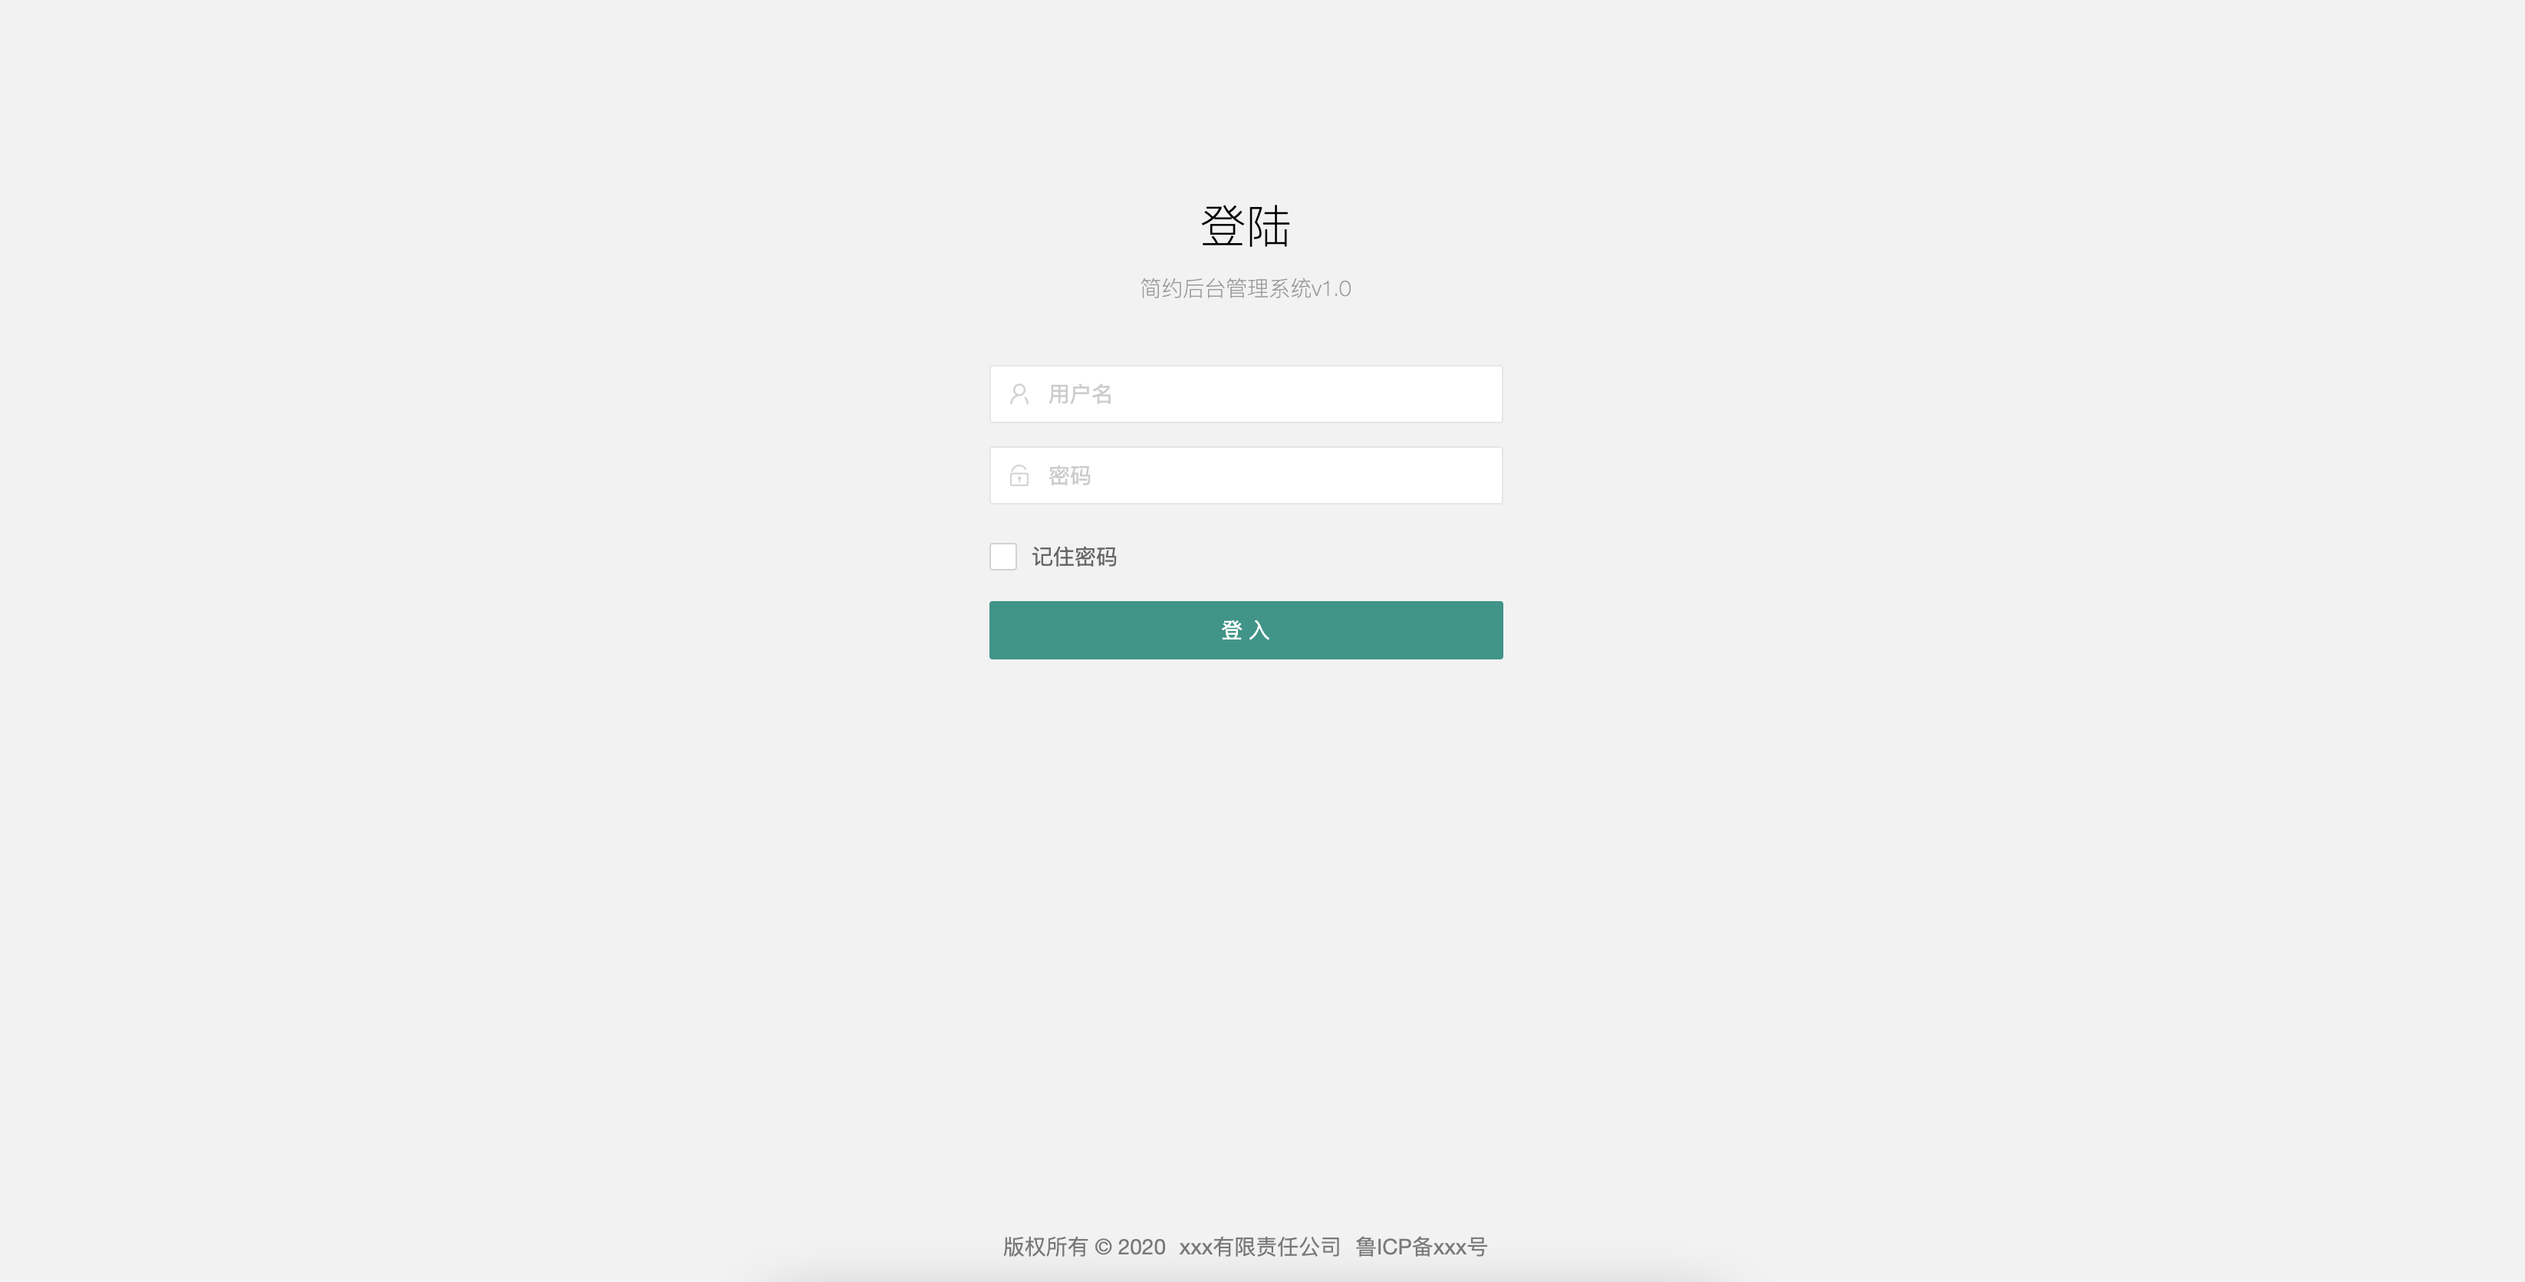
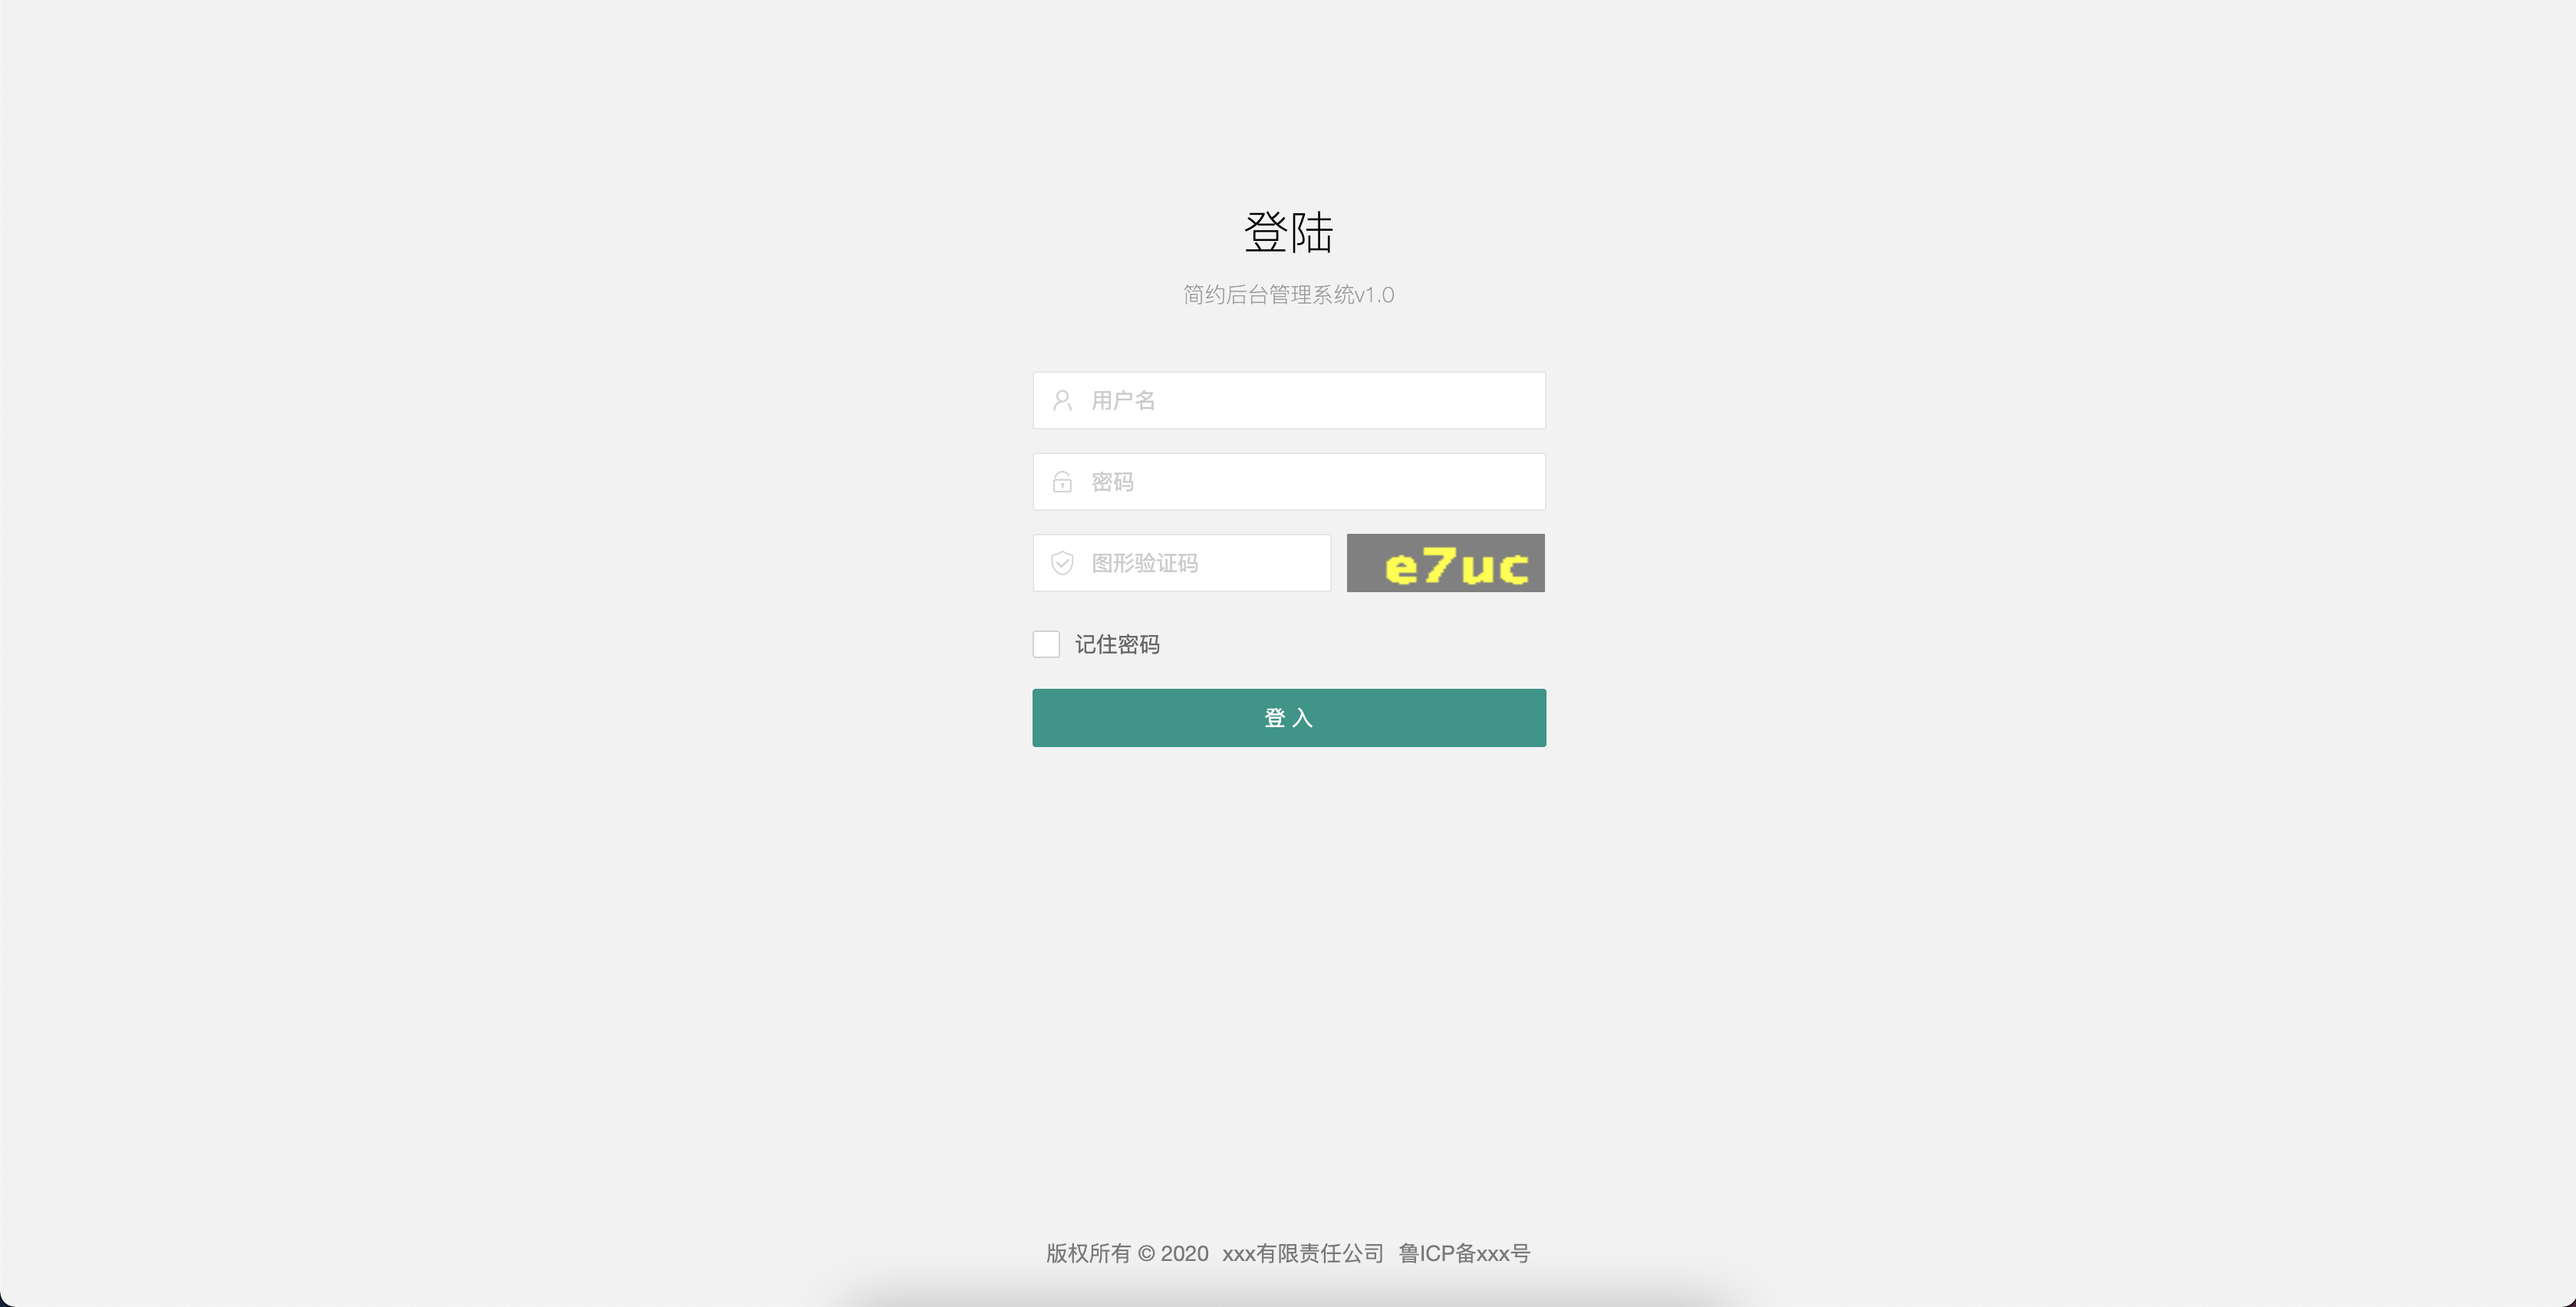
登陆增加验证码

diff --git a/src/main/resources/templates/login.html b/src/main/resources/templates/login.html
@@ -33,7 +33,8 @@
                         <input type="text" name="code" lay-verify="required" placeholder="图形验证码" class="layui-input">
                     </div>
                     <div class="layui-col-xs5">
-                        <div style="margin-left: 10px;" id="codeImg">
+                        <div style="margin-left: 10px;">
+                            <img id="codeImg" src="https://www.oschina.net/action/user/captcha" class="layadmin-user-login-codeimg">
                         </div>
                     </div>
                 </div>
@@ -61,6 +62,8 @@
     }).use(['index', 'user'], function(){
         let $ = layui.$
             ,form = layui.form;
+        // 初始化
+        getImgCode();
         form.render();
         //提交
         form.on('submit(login)', function(obj){
@@ -79,16 +82,16 @@
                             window.location.href = '/';
                         });
                     } else {
-                        layer.msg('用户名或密码错误');
+                        layer.msg(result.message);
+                        // 刷新验证码
+                        getImgCode();
                     }
                 }
             });
         });
 
-        $("#codeImg").on('click', function(){
-            getImgCode();
-        });
-        $(document).ready(function(){
+        $("#codeImg").on('click', function() {
+            // 添加验证码
             getImgCode();
         });
     });
@@ -104,8 +107,7 @@
         xhr.onload = function() {
             if (this.status === 200) {
                 let blob = this.response;
-                console.log(blob);
-
+                document.getElementById("codeImg").src = window.URL.createObjectURL(blob);
             }
         }
         xhr.send();

diff --git a/src/main/java/io/github/yangyouwang/core/filter/ValidateCodeFilter.java b/src/main/java/io/github/yangyouwang/core/filter/ValidateCodeFilter.java
@@ -1,16 +1,17 @@
 package io.github.yangyouwang.core.filter;
 
+import com.alibaba.fastjson.JSON;
 import io.github.yangyouwang.common.constant.Constants;
-import io.github.yangyouwang.core.exception.CrudException;
+import io.github.yangyouwang.common.domain.Result;
 import org.apache.commons.lang3.StringUtils;
 import org.springframework.stereotype.Component;
 import org.springframework.web.filter.OncePerRequestFilter;
 
-import javax.servlet.FilterChain;
-import javax.servlet.ServletException;
+import javax.servlet.*;
 import javax.servlet.http.HttpServletRequest;
 import javax.servlet.http.HttpServletResponse;
 import java.io.IOException;
+import java.io.PrintWriter;
 
 /**
  * @author yangyouwang
@@ -22,12 +23,15 @@ import java.io.IOException;
 @Component
 public class ValidateCodeFilter extends OncePerRequestFilter {
 
+
     @Override
     protected void doFilterInternal(HttpServletRequest request, HttpServletResponse response, FilterChain filterChain) throws ServletException, IOException {
         // 登陆请求
-        if (StringUtils.equals("/login", request.getRequestURI())
+        if (StringUtils.equals(Constants.DEFAULT_LOGIN_URL, request.getServletPath())
                 && StringUtils.equalsIgnoreCase(request.getMethod(), "POST")) {
-            validate(request);
+            if (!validate(request,response)) {
+                return;
+            }
         }
         // 不是一个登录请求，不做校验 直接通过
         filterChain.doFilter(request, response);
@@ -36,18 +40,39 @@ public class ValidateCodeFilter extends OncePerRequestFilter {
     /**
      * 验证码校验
      */
-    private void validate(HttpServletRequest request) {
-        String code = request.getAttribute("code").toString();
+    private boolean validate(HttpServletRequest request,HttpServletResponse response) {
+        String code = request.getParameter("code");
         if (StringUtils.isBlank(code)) {
-            throw new CrudException("验证码不能为空");
+            write(response,"验证码不能为空");
+            return false;
         }
-        String checkCode = request.getSession().getAttribute(Constants.IMAGE_CODE_SESSION).toString();
-        if (checkCode == null) {
-            throw new CrudException("验证码不存在");
+        Object checkCode = request.getSession(false).getAttribute(Constants.IMAGE_CODE_SESSION);
+        if (null == checkCode) {
+            write(response,"验证码不存在");
+            return false;
         }
-        if (!StringUtils.equals(code, checkCode)) {
-            throw new CrudException("验证码不匹配");
+        if (!StringUtils.equalsIgnoreCase(code,checkCode.toString())) {
+            write(response,"验证码不匹配");
+            return false;
         }
-        request.getSession().removeAttribute(Constants.IMAGE_CODE_SESSION);
+        request.getSession(false).removeAttribute(Constants.IMAGE_CODE_SESSION);
+        return true;
+    }
+
+    /**
+     * 发送HTTP响应信息
+     *
+     * @param response HTTP响应对象
+     * @param message 信息内容
+     */
+    private void write(HttpServletResponse response, String message) {
+        response.setCharacterEncoding("utf-8");
+        response.setContentType("application/json;charset=UTF-8");
+        try (PrintWriter writer = response.getWriter();) {
+            writer.write(JSON.toJSONString(Result.failure(message)));
+            writer.flush();
+        } catch (IOException e) {
+            e.printStackTrace();
+        }
     }
 }

diff --git a/src/main/java/io/github/yangyouwang/crud/system/service/SysUserService.java b/src/main/java/io/github/yangyouwang/crud/system/service/SysUserService.java
@@ -2,6 +2,7 @@ package io.github.yangyouwang.crud.system.service;
 
 import cn.hutool.core.bean.BeanUtil;
 import cn.hutool.core.bean.copier.CopyOptions;
+import cn.hutool.core.util.ObjectUtil;
 import com.baomidou.mybatisplus.core.conditions.query.LambdaQueryWrapper;
 import com.baomidou.mybatisplus.core.metadata.IPage;
 import com.baomidou.mybatisplus.extension.plugins.pagination.Page;
@@ -14,7 +15,6 @@ import io.github.yangyouwang.crud.system.mapper.SysUserRoleMapper;
 import io.github.yangyouwang.crud.system.model.*;
 import io.github.yangyouwang.crud.system.model.req.*;
 import io.github.yangyouwang.crud.system.model.resp.SysUserResp;
-import org.apache.commons.collections4.CollectionUtils;
 import org.apache.commons.lang3.StringUtils;
 import org.springframework.beans.BeanUtils;
 import org.springframework.lang.NonNull;
@@ -23,6 +23,7 @@ import org.springframework.security.core.authority.SimpleGrantedAuthority;
 import org.springframework.security.core.userdetails.UserDetails;
 import org.springframework.security.core.userdetails.UserDetailsService;
 import org.springframework.security.core.userdetails.User;
+import org.springframework.security.core.userdetails.UsernameNotFoundException;
 import org.springframework.security.crypto.bcrypt.BCryptPasswordEncoder;
 import org.springframework.stereotype.Service;
 import org.springframework.transaction.annotation.Isolation;
@@ -62,15 +63,16 @@ public class SysUserService extends ServiceImpl<SysUserMapper, SysUser> implemen
     public UserDetails loadUserByUsername(@NonNull String userName) {
         // 通过用户名从数据库获取用户信息
         SysUser user  = sysUserMapper.findUserByName(userName);
+        if (ObjectUtil.isNull(user)) {
+            throw new UsernameNotFoundException("用户名或密码错误");
+        }
         Set<GrantedAuthority> authorities = new LinkedHashSet<>();
-        if (CollectionUtils.isNotEmpty(user.getRoles())) {
-            for (SysRole role : user.getRoles()) {
-                List<SysMenu> menus = sysMenuMapper.findMenuByRoleId(role.getId());
-                for (SysMenu menu : menus) {
-                    authorities.add(new SimpleGrantedAuthority(menu.getPerms()));
-                }
-                authorities.add(new SimpleGrantedAuthority("ROLE_" + role.getRoleKey()));
+        for (SysRole role : user.getRoles()) {
+            List<SysMenu> menus = sysMenuMapper.findMenuByRoleId(role.getId());
+            for (SysMenu menu : menus) {
+                authorities.add(new SimpleGrantedAuthority(menu.getPerms()));
             }
+            authorities.add(new SimpleGrantedAuthority("ROLE_" + role.getRoleKey()));
         }
         return new User(user.getUserName(), user.getPassWord(), Constants.ENABLED_YES.equals(user.getEnabled()),
                 true, true, true, authorities);

diff --git a/src/main/java/io/github/yangyouwang/core/config/I18nConfig.java b/src/main/java/io/github/yangyouwang/core/config/I18nConfig.java
@@ -1,0 +1,24 @@
+package io.github.yangyouwang.core.config;
+
+import org.springframework.context.annotation.Bean;
+import org.springframework.context.annotation.Configuration;
+import org.springframework.context.support.ReloadableResourceBundleMessageSource;
+
+/**
+ * @author yangyouwang
+ * @title: I18nConfig
+ * @projectName crud
+ * @description: I18n国际化
+ * @date 2021/5/8下午11:33
+ */
+@Configuration
+public class I18nConfig {
+
+    @Bean(name = "messageSource")
+    public ReloadableResourceBundleMessageSource messageSource() {
+        ReloadableResourceBundleMessageSource messageBundle = new ReloadableResourceBundleMessageSource();
+        messageBundle.setBasename("classpath:messages/messages");
+        messageBundle.setDefaultEncoding("UTF-8");
+        return messageBundle;
+    }
+}

diff --git a/src/main/java/io/github/yangyouwang/core/config/SecurityConfig.java b/src/main/java/io/github/yangyouwang/core/config/SecurityConfig.java
@@ -58,7 +58,6 @@ public class SecurityConfig extends WebSecurityConfigurerAdapter {
                 .passwordEncoder(passwordEncoder());
     }
 
-
     /**
      * 配置放行的资源
      **/
@@ -74,6 +73,7 @@ public class SecurityConfig extends WebSecurityConfigurerAdapter {
                 .antMatchers("/swagger-ui.html", "/swagger-resources/**", "/images/**",
                         "/webjars/**", "/v2/handler-docs","/configuration/ui", "/configuration/security");
     }
+
     /**
      * 权限配置
      */

diff --git a/src/main/java/io/github/yangyouwang/common/constant/Constants.java b/src/main/java/io/github/yangyouwang/common/constant/Constants.java
@@ -6,6 +6,10 @@ package io.github.yangyouwang.common.constant;
  */
 public interface Constants {
     /**
+     * 登陆接口
+     */
+    String DEFAULT_LOGIN_URL = "/login";
+    /**
      * 验证码存session
      */
     String IMAGE_CODE_SESSION = "IMAGE_CODE";
